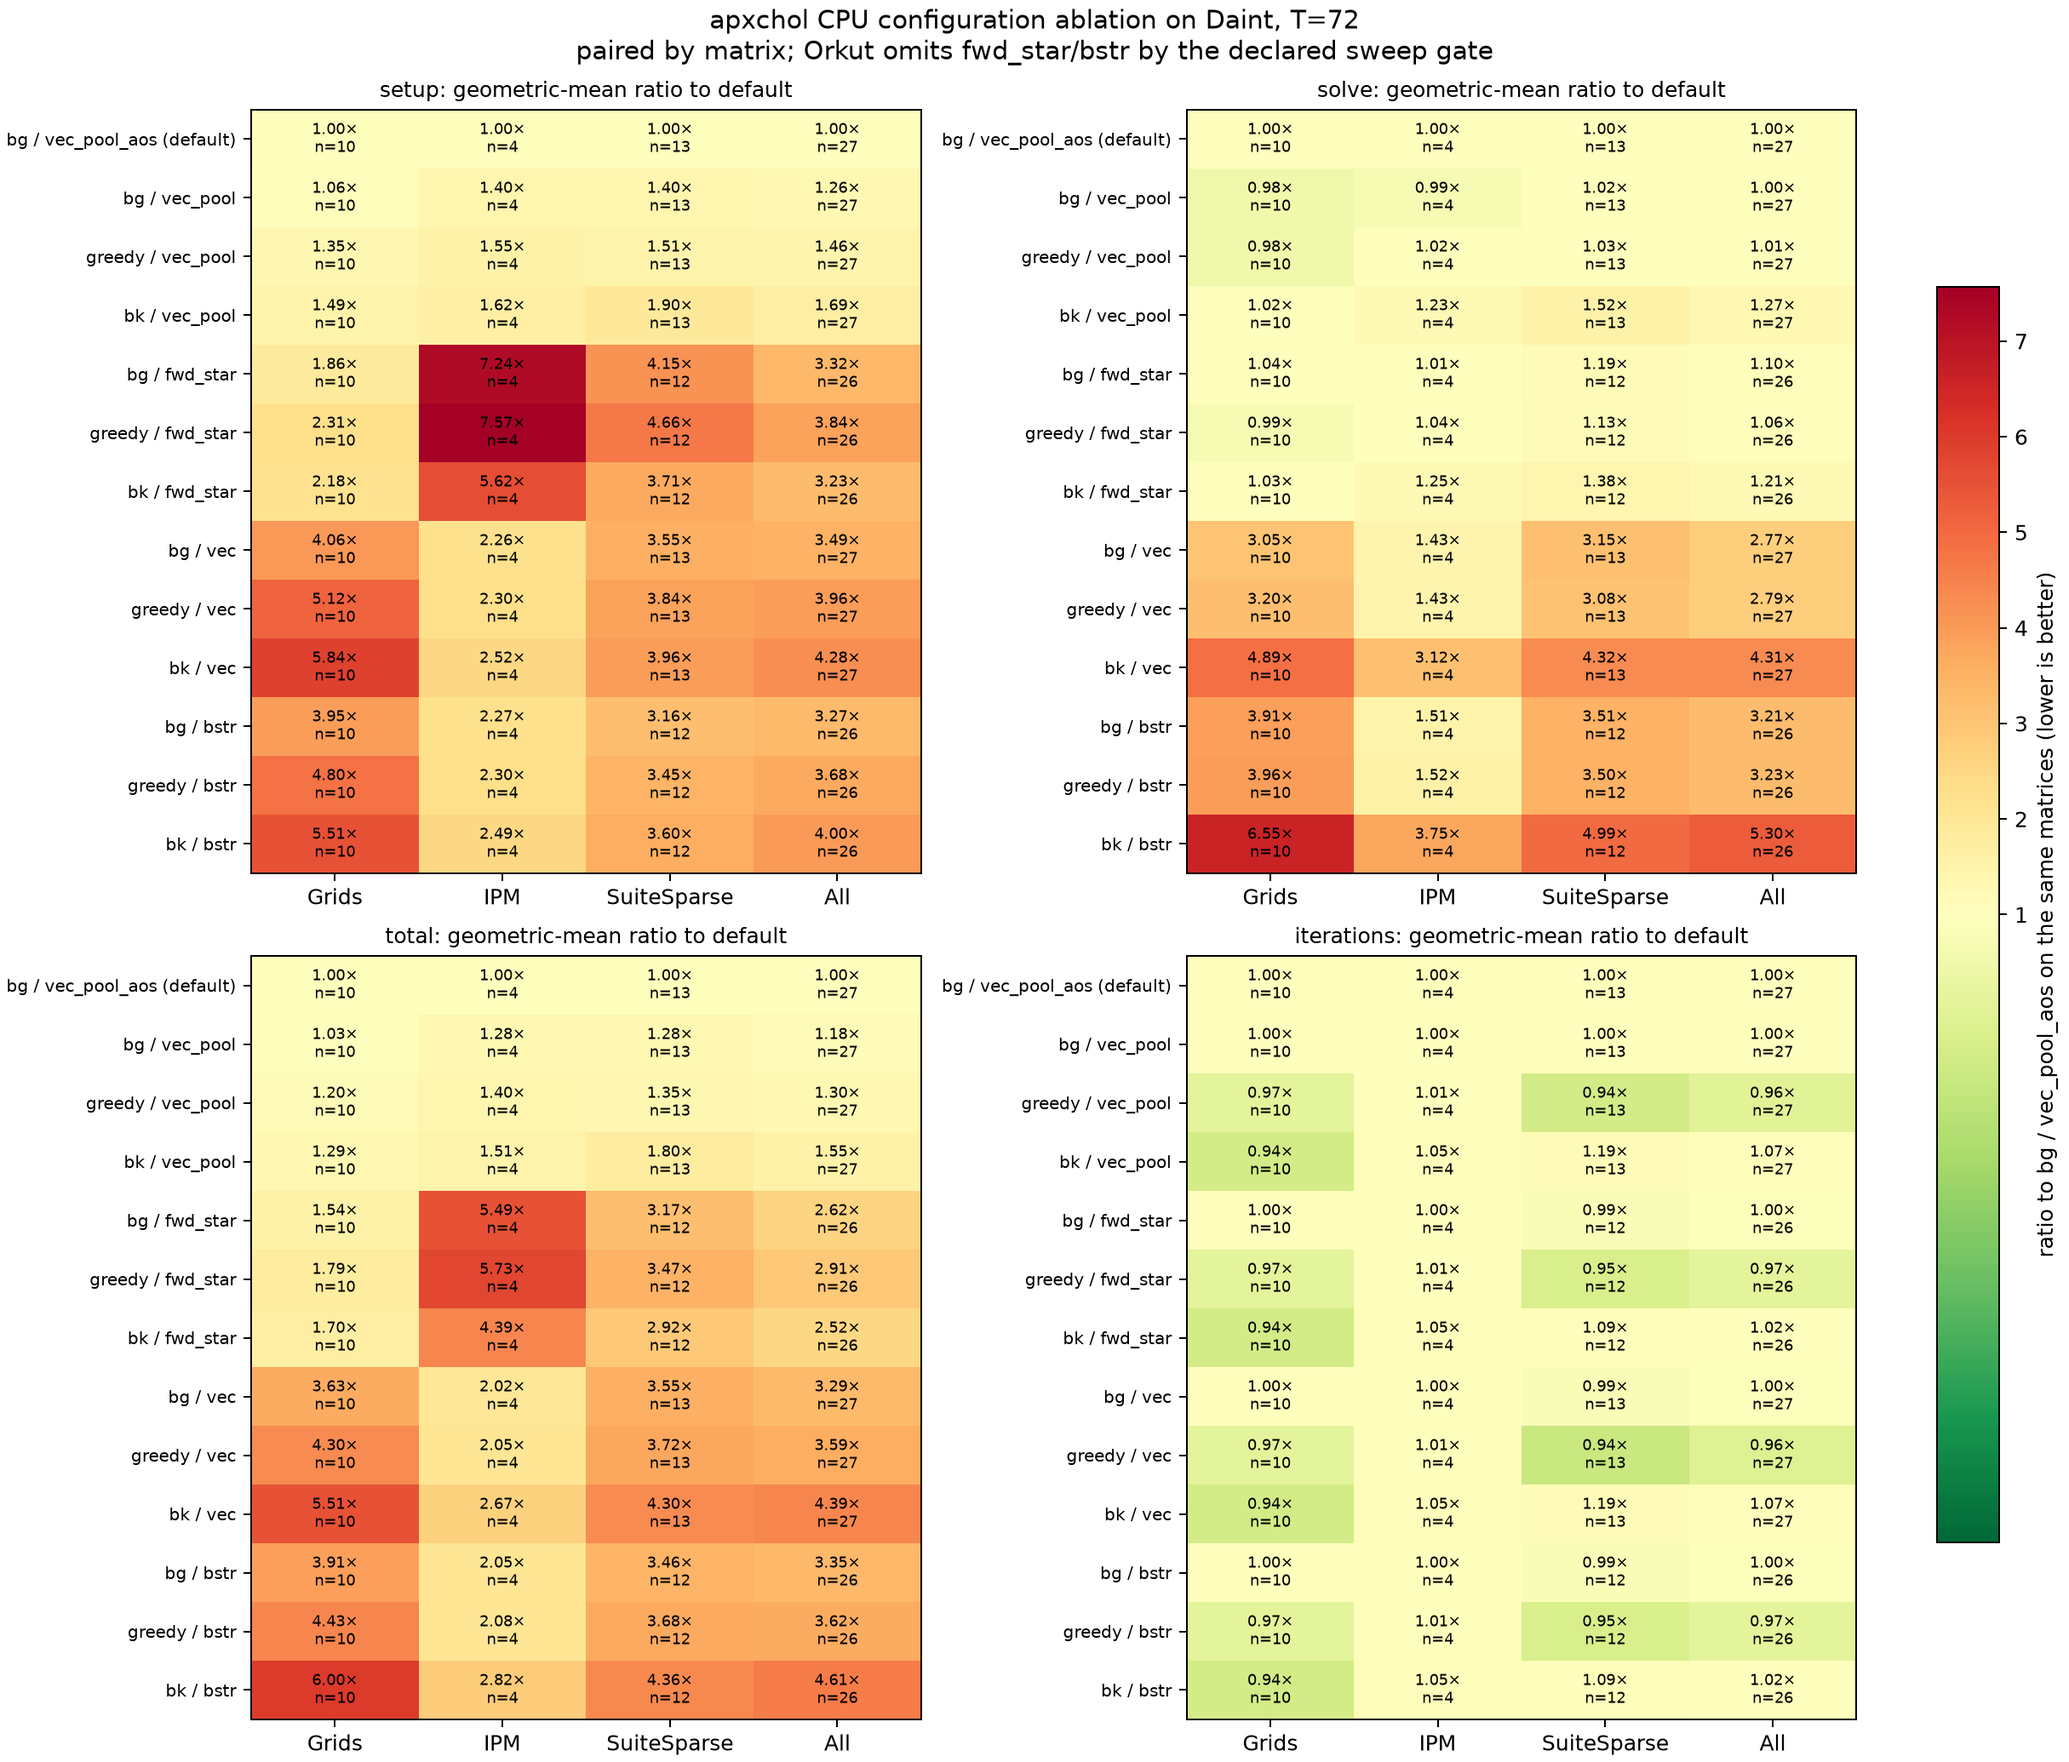
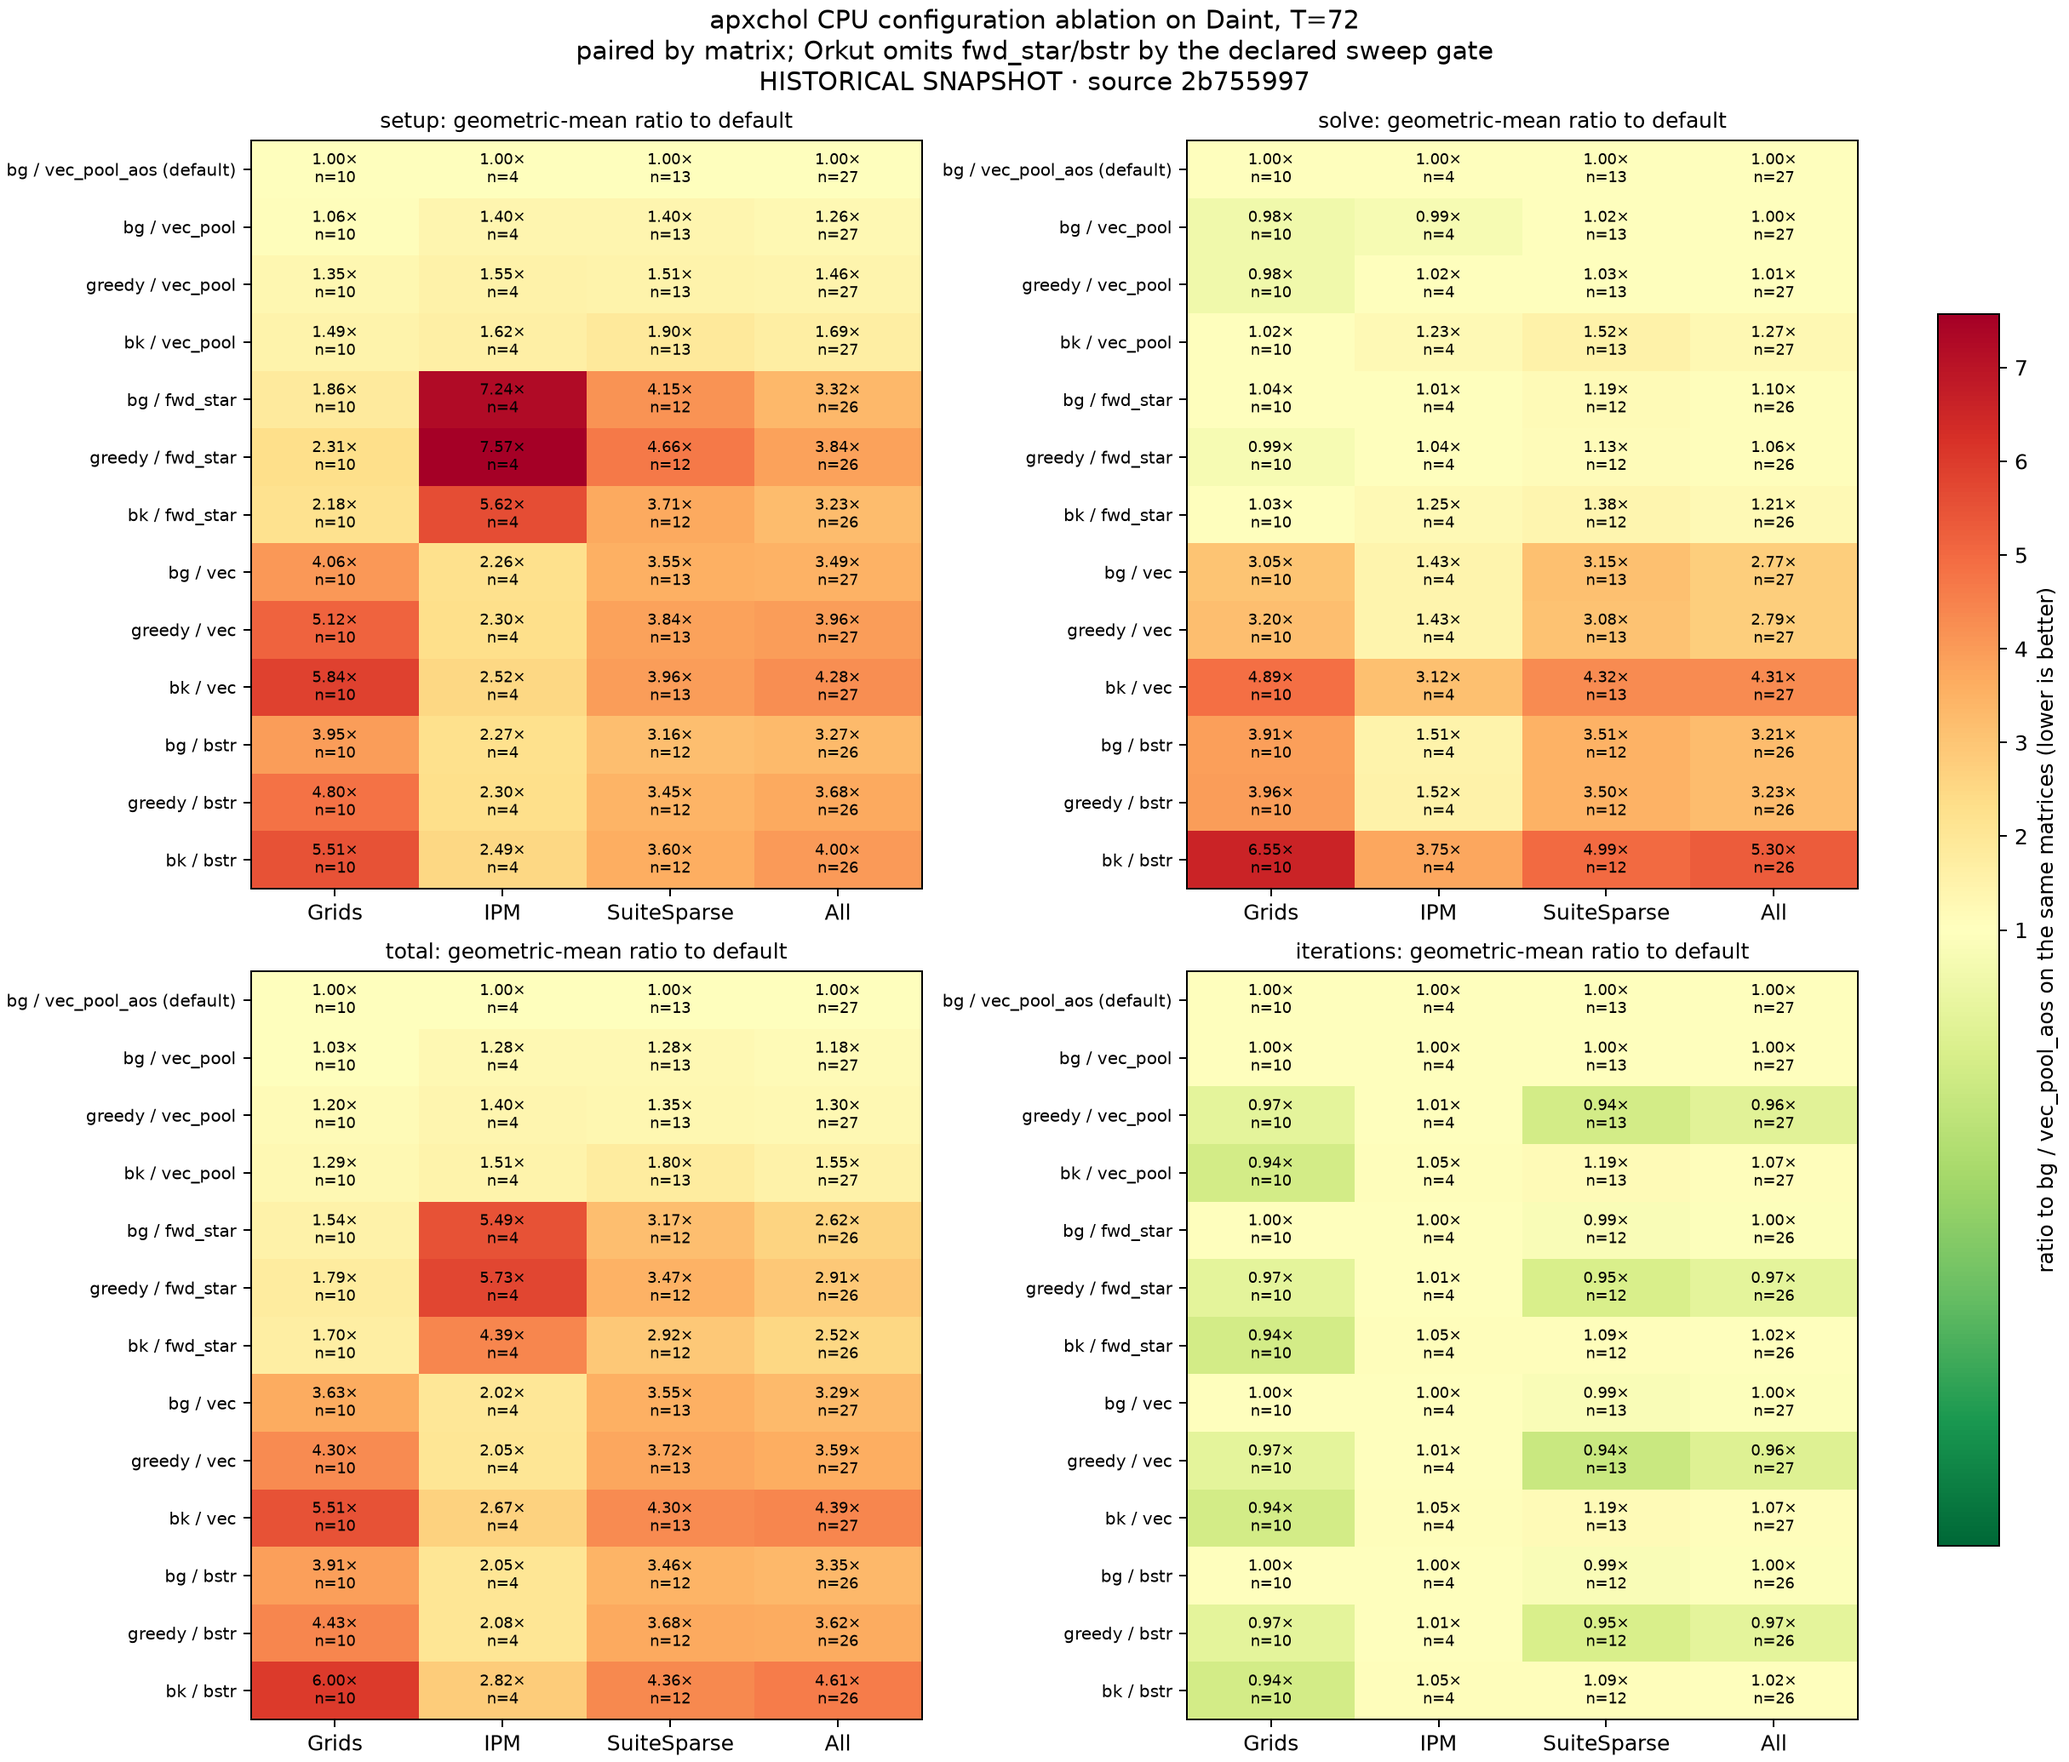
bench: regenerate pinned Daint figures

diff --git a/benchmarks/daint/summary.md b/benchmarks/daint/summary.md
@@ -1,5 +1,7 @@
 # Daint campaign summary
 
+> **HISTORICAL SNAPSHOT · checksummed Daint setup campaign.** This renderer consumes committed extracts from fixed, checksummed raw-log campaigns rather than the current unified cell store.
+
 Both campaigns used one Daint node split into four NUMA-local 72-core ranks. Times are milliseconds; scaling cells are medians of three repetitions. Historical ratios bracket each current run by two executions of the old binary.
 
 ## Cumulative July-27 to current comparison
@@ -25,7 +27,7 @@ Ratios are current divided by the geometric mean of the old-before/old-after bra
 | 36 | 4.934x | 8.404x | 15.633x | 3.040x | 3.165x | 2.859x |
 | 72 | 5.387x | 9.649x | 18.022x | 3.732x | 3.224x | 3.272x |
 
-At T=72 the whole partition phase reaches 9.649x because pruning reaches 18.022x; pure IS selection reaches only 3.732x. The selector is nevertheless a median 8.1% of setup, versus 45.7% for elimination. Elimination is 41.9-60.0% of setup on all nine matrices and its 3.224x geomean speedup is the main remaining scaling limit.
+At T=72 the whole partition phase reaches 9.649x because pruning reaches 18.022x; pure IS selection reaches only 3.732x. The selector is nevertheless a median 8.1% of setup, versus 45.7% for elimination. Elimination is 41.9%-60.0% of setup on all nine matrices and its 3.224x geomean speedup is the main remaining scaling limit.
 
 ## Structural probe verdict
 

diff --git a/benchmarks/daint/fair_t72_summary.md b/benchmarks/daint/fair_t72_summary.md
@@ -1,5 +1,7 @@
 # Daint T=72 fair-solver campaign
 
+> **HISTORICAL SNAPSHOT · source 2b755997.** This reproduces a pinned campaign; it is not a current-main benchmark view.
+
 The combined campaign contains **750/750 planned cells** over 27 matrices: **670 complete**, **7 not converged**, **35 timeout**, **7 failed**, **31 n/a**. Every completed cell has true relative residual at most `9.936114e-09`.
 
 Times are medians of three full setup+solve repetitions at T=72. The CPU/GPU ratio below is CPU time divided by GPU time, so values above one favor the GPU.
